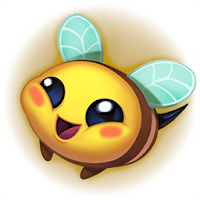
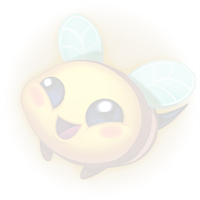
Added: backgroud, minilogo, corrected endpoint for voting on answers

diff --git a/templates/base.html b/templates/base.html
@@ -4,14 +4,13 @@
     <meta charset="UTF-8">
     <link rel="stylesheet" href="/static/styles.css"/>
     <title>{% block title %} {% endblock %}</title>
-    <link rel="icon" href="/static/img/happy.png" type="image/icon type">
-<!--
+    <link rel="icon" href="/static/img/happier.png" type="image/icon type">
+
     <style>
         body {
             background-image: url('/static/img/happy.png');
         }
-    </style> -->
-
+    </style>
 </head>
 <body>
     <link rel="stylesheet" href="https://stackpath.bootstrapcdn.com/bootstrap/4.3.1/css/bootstrap.min.css" integrity="sha384-ggOyR0iXCbMQv3Xipma34MD+dH/1fQ784/j6cY/iJTQUOhcWr7x9JvoRxT2MZw1T" crossorigin="anonymous">

diff --git a/templates/list.html b/templates/list.html
@@ -2,7 +2,9 @@
 {% block title %} List questions {% endblock %}
 
 {% block content %}
-<h1 class="header">Hello dear user!</h1>
+<h1 class="header">Hello There!</h1>
+<h3 align="center">Currently available list of questions</h3>
+<hr>
 <table border="1px" class="table__sortable">
     <tr class="table__header">
         {% for element in headers %}

diff --git a/static/styles.css b/static/styles.css
@@ -8,8 +8,9 @@
 .table__sortable {
     border-spacing: 0;
     background-color: #58E1F6;
-    margin: 20px;
     width: 70%;
+    margin-left: auto;
+    margin-right: auto;
 }
 
 .table__header {

diff --git a/server.py b/server.py
@@ -103,7 +103,7 @@ def answers_vote_up(answer_id):
     if request.method == "POST":
         if 'vote_up' in request.form:
             data_handling.answer_vote_up(answer)
-    return redirect("/question/<question_id>")
+    return redirect(f"/question/{answer['question_id']}")
 
 @app.route("/answer/<answer_id>/vote_down", methods=["GET", "POST"])
 def answers_vote_down(answer_id):
@@ -111,7 +111,7 @@ def answers_vote_down(answer_id):
     if request.method == "POST":
         if 'vote_down' in request.form:
             data_handling.answer_vote_down(answer)
-    return redirect("/question/<question_id>")
+    return redirect(f"/question/{answer['question_id']}")
 
 
 if __name__ == "__main__":
